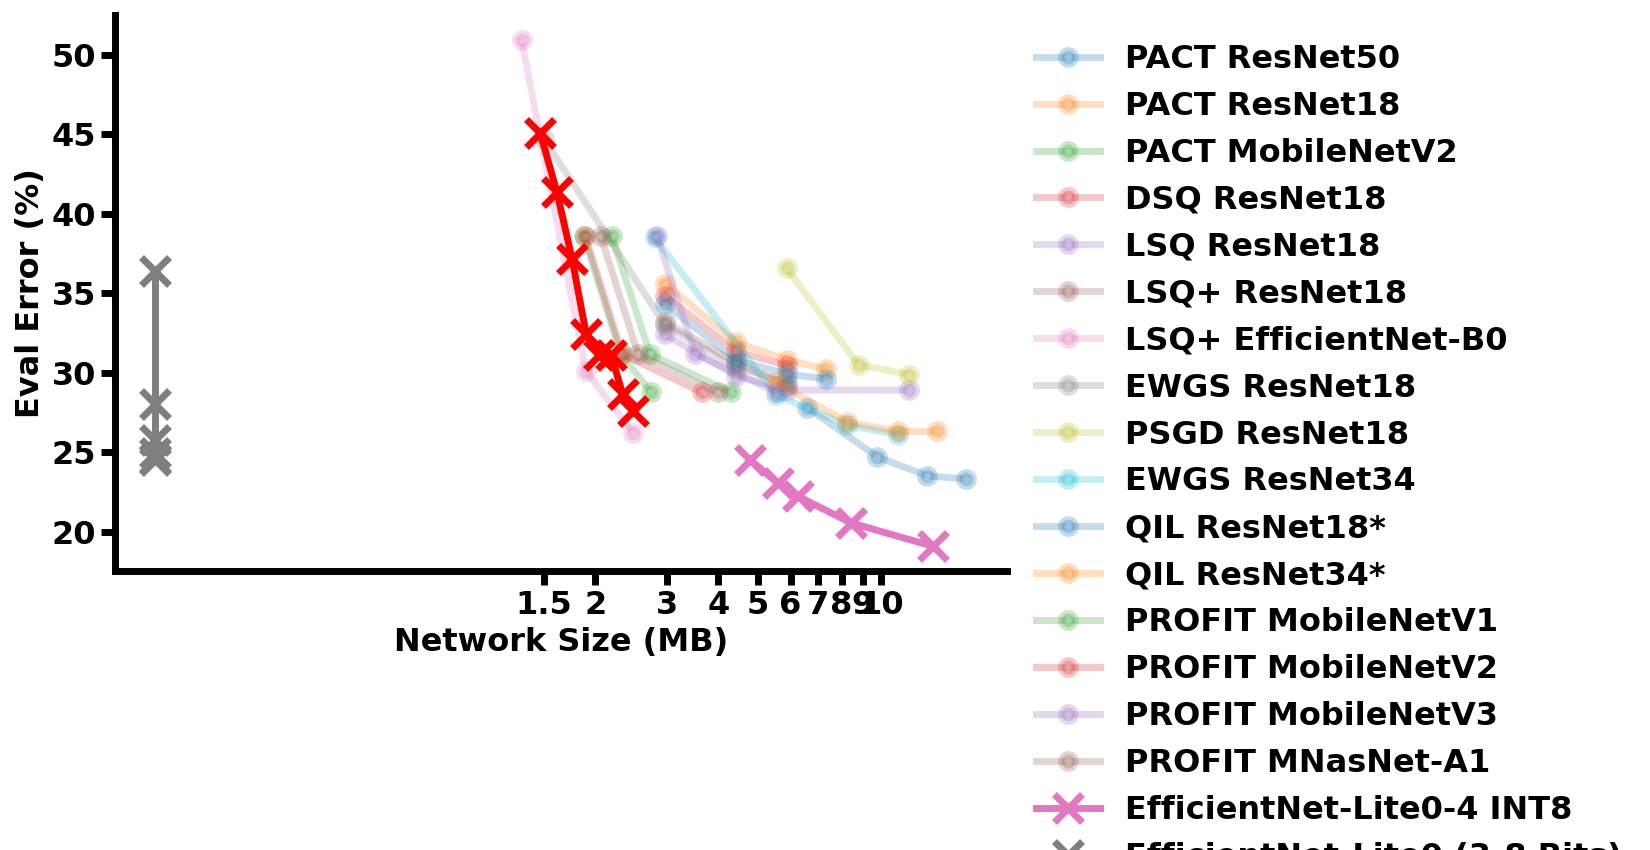
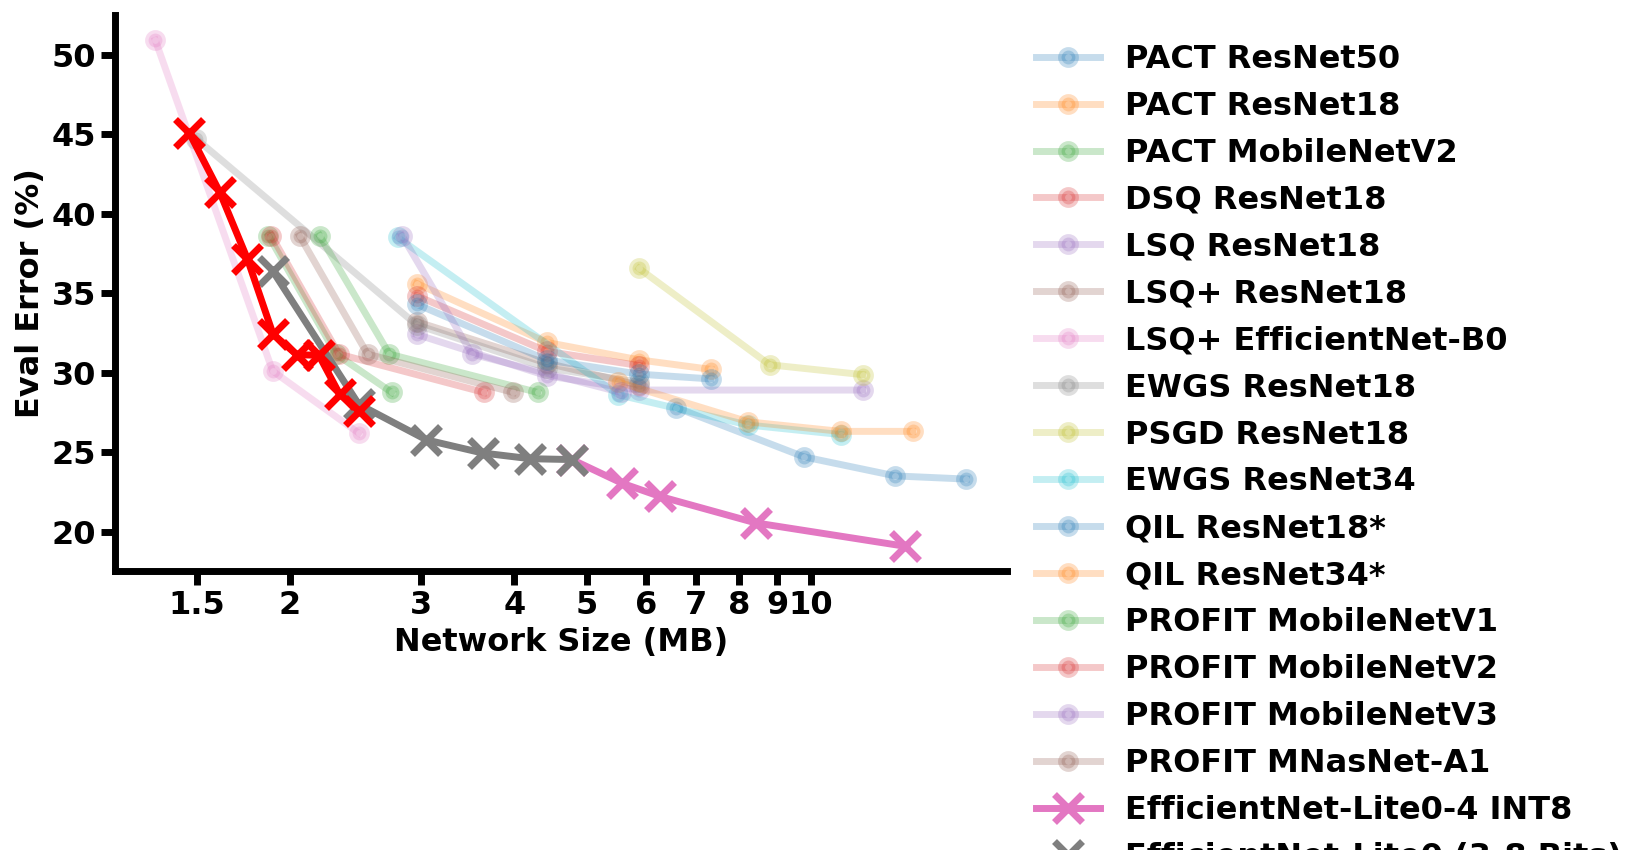
normal - figure adjustment

diff --git a/examples/efficientnet/visualization.py b/examples/efficientnet/visualization.py
@@ -531,7 +531,7 @@ def plot_comparison(name):
           linewidth=5)
 
   # [1.744503, 2.326004, 2.907505, 3.489006, 4.070507, 4.652008]
-  ax.plot(0.5762490000 * np.array([3,4,5,6,7,8]) / 8_000_000 + 0.16806400,
+  ax.plot(0.5762490000 * np.array([3,4,5,6,7,8]) + 0.16806400,
           np.array([0.36395263671875, 0.2801310420036316, 0.2576497197151184,
                     0.2494099736213684, 0.2458088994026184,
                     0.2452799677848816]) * 100, marker='x',
